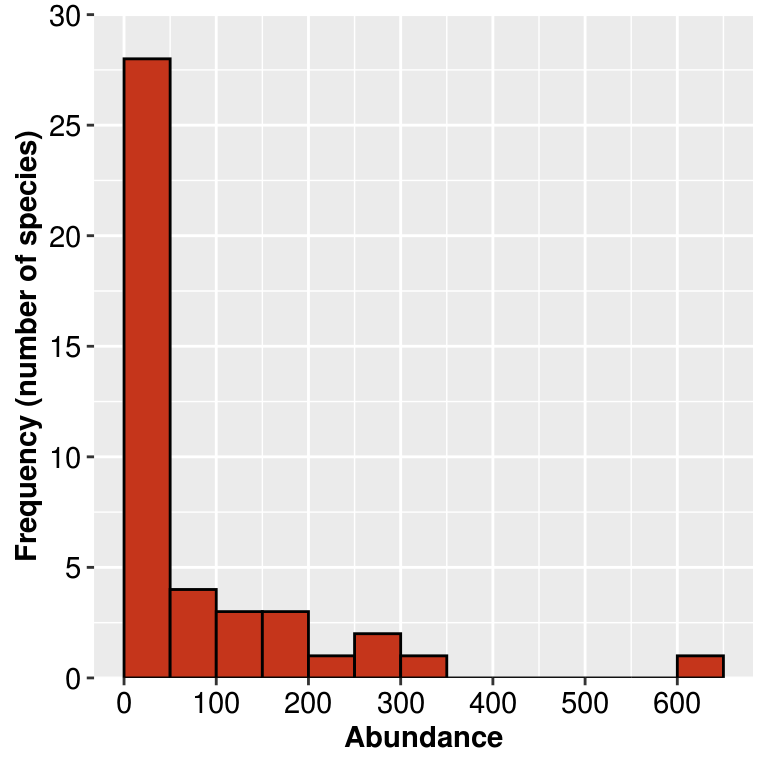
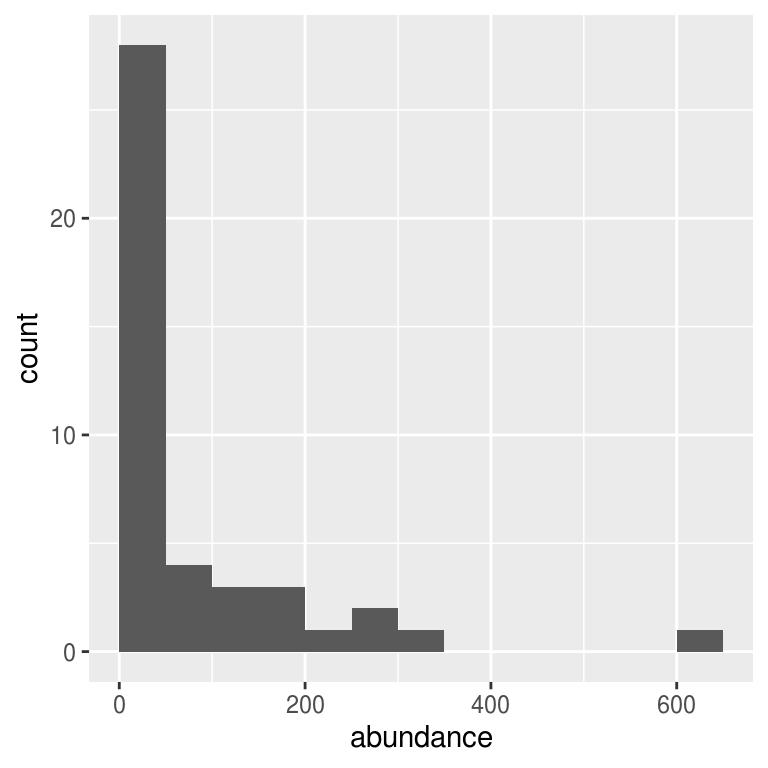
Update the book

diff --git a/introduction-to-ggplot2.html b/introduction-to-ggplot2.html
@@ -311,7 +311,7 @@
 <div class="inline-figure"><img src="lab-3_files/figure-html/unnamed-chunk-10-1.png" width="70%" style="display: block; margin: auto;"></div>
 <p>Fourth, fix the look of the graph by using:</p>
 <ul>
-<li><p>Change the <code>width</code> of the bars (columns)</p></li>
+<li><p>the <code>width</code> argument of <code>geom_bar()</code> to set make the bars (columns) a bit narrower</p></li>
 <li><p><code>scale_y_continuous()</code> to set the y-axis limits to 0 and 50, with no buffer</p></li>
 <li><p><code>theme_classic()</code> to remove the background color, adds axis lines, and increases the base font size</p></li>
 <li>
@@ -425,22 +425,23 @@
 <div class="sourceCode" id="cb41"><pre class="downlit sourceCode r">
 <code class="sourceCode R"><span class="fu">ggplot</span><span class="op">(</span>data <span class="op">=</span> <span class="va">bird_data</span><span class="op">)</span> <span class="op">+</span>
   <span class="fu">geom_histogram</span><span class="op">(</span>mapping <span class="op">=</span> <span class="fu">aes</span><span class="op">(</span>x <span class="op">=</span> <span class="va">abundance</span><span class="op">)</span>, binwidth <span class="op">=</span> <span class="fl">50</span>,
+                 boundary <span class="op">=</span> <span class="fl">0</span>, closed <span class="op">=</span> <span class="st">"left"</span><span class="op">)</span></code></pre></div>
+<div class="inline-figure"><img src="lab-3_files/figure-html/unnamed-chunk-17-1.png" width="70%" style="display: block; margin: auto;"></div>
+<p>And finally, clean it up with some axis labels and styling changes:</p>
+<div class="sourceCode" id="cb42"><pre class="downlit sourceCode r">
+<code class="sourceCode R"><span class="fu">ggplot</span><span class="op">(</span>data <span class="op">=</span> <span class="va">bird_data</span><span class="op">)</span> <span class="op">+</span>
+  <span class="fu">geom_histogram</span><span class="op">(</span>mapping <span class="op">=</span> <span class="fu">aes</span><span class="op">(</span>x <span class="op">=</span> <span class="va">abundance</span><span class="op">)</span>, binwidth <span class="op">=</span> <span class="fl">50</span>,
                  boundary <span class="op">=</span> <span class="fl">0</span>, closed <span class="op">=</span> <span class="st">"left"</span>, 
                  fill <span class="op">=</span> <span class="st">"#C5351B"</span>, color <span class="op">=</span> <span class="st">"black"</span><span class="op">)</span> <span class="op">+</span>
   <span class="fu">labs</span><span class="op">(</span>x <span class="op">=</span> <span class="st">"Abundance"</span>, y <span class="op">=</span> <span class="st">"Frequency (number of species)"</span><span class="op">)</span> <span class="op">+</span>
   <span class="fu">scale_y_continuous</span><span class="op">(</span>breaks <span class="op">=</span> <span class="fu"><a href="https://rdrr.io/r/base/seq.html">seq</a></span><span class="op">(</span><span class="fl">0</span>, <span class="fl">30</span>, <span class="fl">5</span><span class="op">)</span>, limits <span class="op">=</span> <span class="fu"><a href="https://rdrr.io/r/base/c.html">c</a></span><span class="op">(</span><span class="fl">0</span>, <span class="fl">30</span><span class="op">)</span>, 
                      expand <span class="op">=</span> <span class="fu">expansion</span><span class="op">(</span>mult <span class="op">=</span> <span class="fl">0</span><span class="op">)</span><span class="op">)</span> <span class="op">+</span>
   <span class="fu">scale_x_continuous</span><span class="op">(</span>breaks <span class="op">=</span> <span class="fu"><a href="https://rdrr.io/r/base/seq.html">seq</a></span><span class="op">(</span><span class="fl">0</span>, <span class="fl">600</span>, <span class="fl">100</span><span class="op">)</span><span class="op">)</span> <span class="op">+</span>
+  <span class="fu">theme_classic</span><span class="op">(</span><span class="op">)</span> <span class="op">+</span>
   <span class="fu">theme</span><span class="op">(</span>
     axis.title <span class="op">=</span> <span class="fu">element_text</span><span class="op">(</span>face <span class="op">=</span> <span class="st">"bold"</span><span class="op">)</span>,
     axis.text <span class="op">=</span> <span class="fu">element_text</span><span class="op">(</span>color <span class="op">=</span> <span class="st">"black"</span>, size <span class="op">=</span> <span class="fu">rel</span><span class="op">(</span><span class="fl">1</span><span class="op">)</span><span class="op">)</span>
   <span class="op">)</span></code></pre></div>
-<div class="inline-figure"><img src="lab-3_files/figure-html/unnamed-chunk-17-1.png" width="70%" style="display: block; margin: auto;"></div>
-<p>And finally, clean it up with some styling changes:</p>
-<div class="sourceCode" id="cb42"><pre class="downlit sourceCode r">
-<code class="sourceCode R"><span class="fu">ggplot</span><span class="op">(</span>data <span class="op">=</span> <span class="va">bird_data</span><span class="op">)</span> <span class="op">+</span>
-  <span class="fu">geom_histogram</span><span class="op">(</span>mapping <span class="op">=</span> <span class="fu">aes</span><span class="op">(</span>x <span class="op">=</span> <span class="va">abundance</span><span class="op">)</span>, binwidth <span class="op">=</span> <span class="fl">50</span>,
-                 boundary <span class="op">=</span> <span class="fl">0</span>, closed <span class="op">=</span> <span class="st">"left"</span><span class="op">)</span></code></pre></div>
 <div class="inline-figure"><img src="lab-3_files/figure-html/unnamed-chunk-18-1.png" width="70%" style="display: block; margin: auto;"></div>
 </div>
 </div>

diff --git a/lab-3.md b/lab-3.md
@@ -302,7 +302,7 @@ ggplot(data = tiger_data) +
 
 Fourth, fix the look of the graph by using:
 
--   Change the `width` of the bars (columns)
+-   the `width` argument of `geom_bar()` to set make the bars (columns) a bit narrower
 
 -   `scale_y_continuous()` to set the y-axis limits to 0 and 50, with no buffer
 
@@ -454,27 +454,28 @@ Set the `closed` argument to `"left"` to change it so the left edge of the bin i
 ```r
 ggplot(data = bird_data) +
   geom_histogram(mapping = aes(x = abundance), binwidth = 50,
+                 boundary = 0, closed = "left")
+```
+
+<img src="lab-3_files/figure-html/unnamed-chunk-17-1.png" width="70%" style="display: block; margin: auto;" />
+
+And finally, clean it up with some axis labels and styling changes:
+
+
+```r
+ggplot(data = bird_data) +
+  geom_histogram(mapping = aes(x = abundance), binwidth = 50,
                  boundary = 0, closed = "left", 
                  fill = "#C5351B", color = "black") +
   labs(x = "Abundance", y = "Frequency (number of species)") +
   scale_y_continuous(breaks = seq(0, 30, 5), limits = c(0, 30), 
                      expand = expansion(mult = 0)) +
   scale_x_continuous(breaks = seq(0, 600, 100)) +
+  theme_classic() +
   theme(
     axis.title = element_text(face = "bold"),
     axis.text = element_text(color = "black", size = rel(1))
   )
-```
-
-<img src="lab-3_files/figure-html/unnamed-chunk-17-1.png" width="70%" style="display: block; margin: auto;" />
-
-And finally, clean it up with some styling changes:
-
-
-```r
-ggplot(data = bird_data) +
-  geom_histogram(mapping = aes(x = abundance), binwidth = 50,
-                 boundary = 0, closed = "left")
 ```
 
 <img src="lab-3_files/figure-html/unnamed-chunk-18-1.png" width="70%" style="display: block; margin: auto;" />
